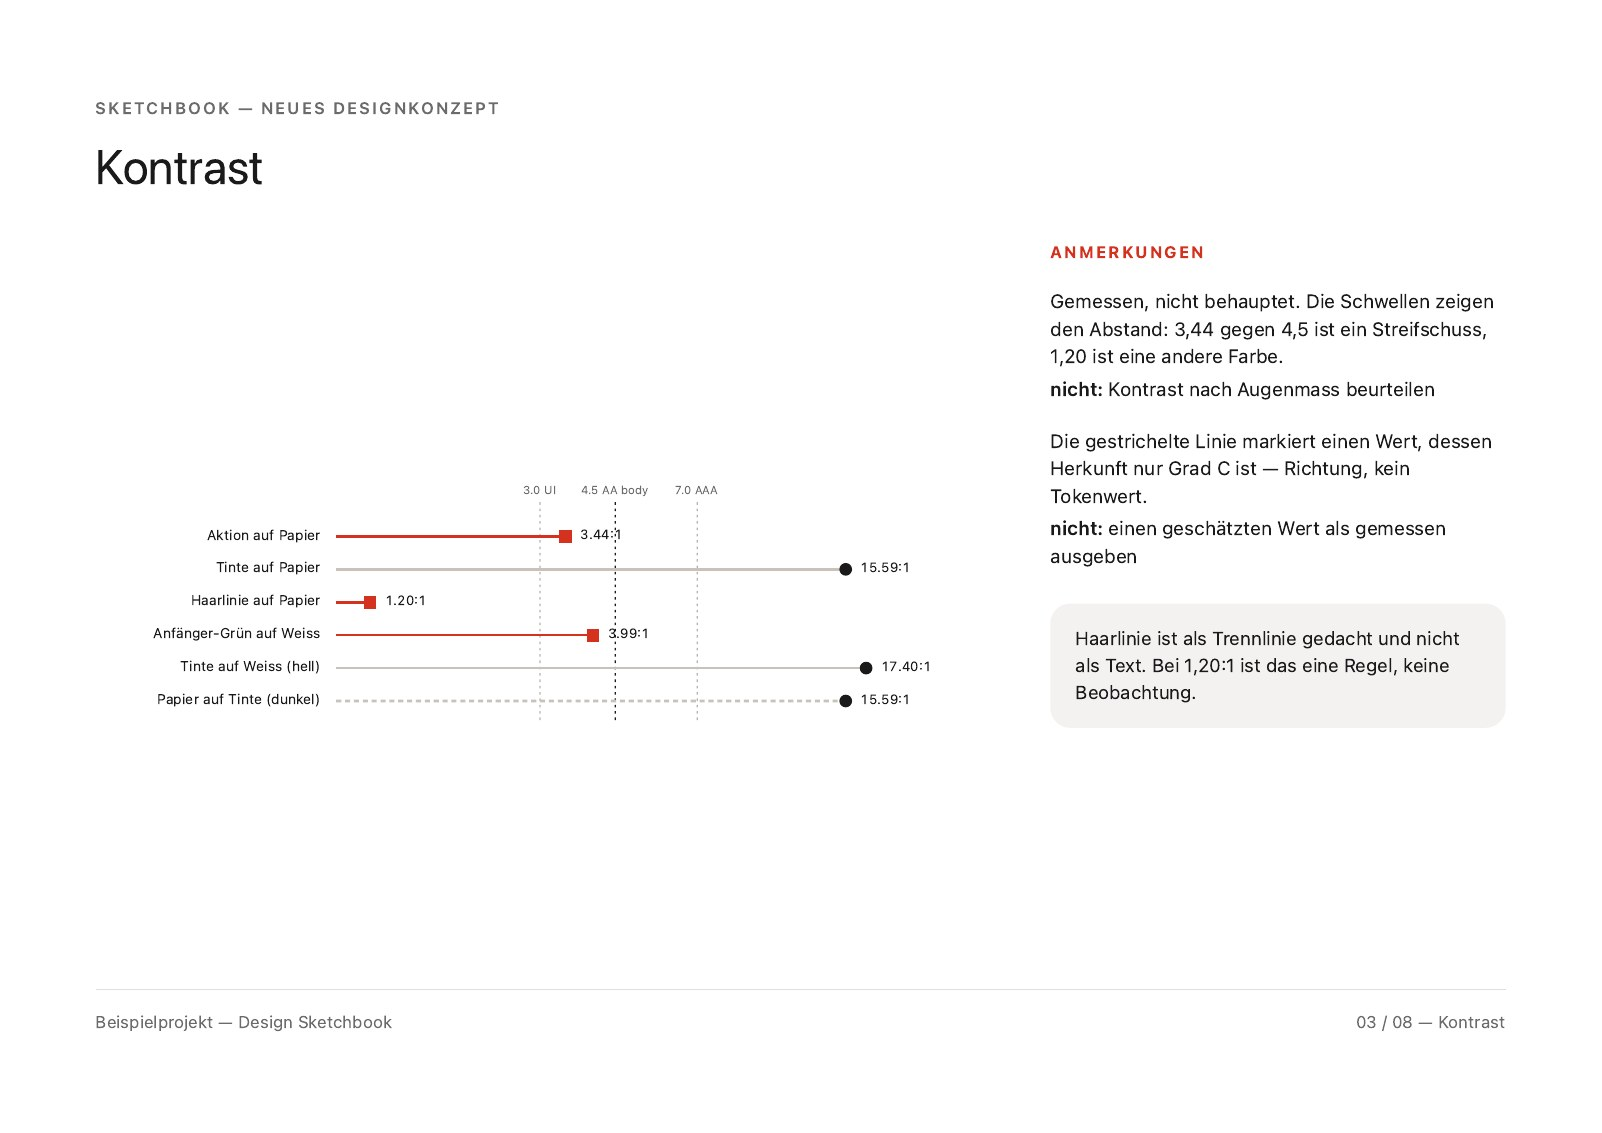
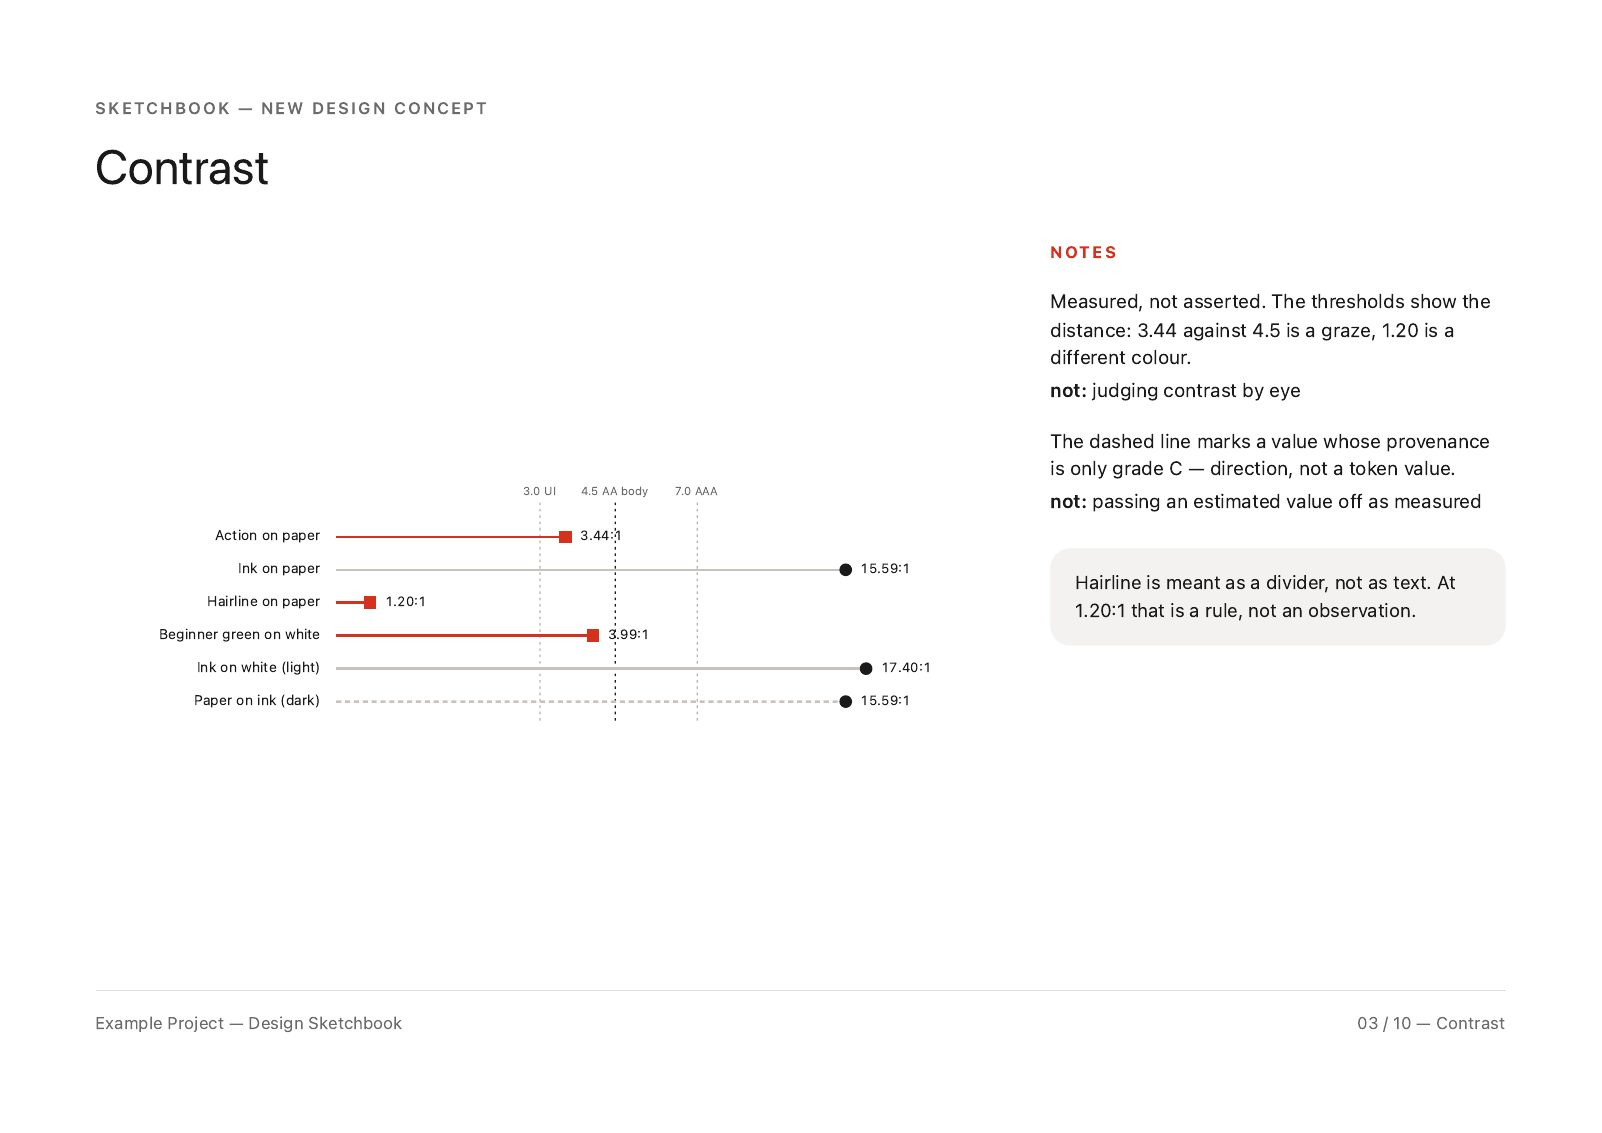
fix(matrize): the Specimen speaks English, and its screenshot was stale
The German was not confined to the demo fixture. build_sketchbook_html.py
hardcoded Anmerkungen, "nicht:", Entscheider:, Freigegeben:, Datum:, Optische
Groesse and Freigabe, so EVERY user got German chrome in their own
client-facing approval PDF regardless of their data. That is the part that
reached people; the fixture is cosmetic beside it.

Three couplings moved together, because any one alone half-lands the change:
the `.anmerkungen` CSS class is a matched pair between the generator and
assets/sketchbook-template.html, so renaming one leaves a silently unstyled
aside; a selftest asserted on "Diskussionsgrundlage", the default framing
string, so translating either alone makes it assert nothing; and the
ANMERKUNG term of art appears in four docstrings that otherwise stop
describing the code. Verified in the rendered page, not by inspection: the
element and its selector both resolve there.

The fixture is a TRANSLATION, not a redesign -- same tennis school, same
colours, px, ms, pin flags, rule/antiRule pairs and `unproven`. Proven by
rendering the old generator + old fixture in a scratch tree and comparing
structural markers: 10 spreads, 16 notes, 1 budget-flag, 0 figures, 8 pins, 8
observations, 15 anti-rules, 6 chips, 10 footers -- identical before and
after. The deliberately over-budget note is still over NOTE_BUDGET (342
chars) with no rule/antiRule pair, so the flag-rather-than-draw branch stays
[…]

diff --git a/plugins/matrize/assets/sketchbook-template.html b/plugins/matrize/assets/sketchbook-template.html
@@ -108,7 +108,7 @@ h1 { font-size: 2.1rem; font-weight: 400; margin: 0 0 1.6rem; letter-spacing: -.
   display: flex; align-items: center; justify-content: center; margin-top: .1rem;
 }
 
-.anmerkungen h2 {
+.notes-margin h2 {
   font-size: .72rem; letter-spacing: .12em; text-transform: uppercase;
   color: var(--sb-accent); font-weight: 700; margin: 0 0 1.1rem;
 }

diff --git a/plugins/matrize/scripts/build_sketchbook_html.py b/plugins/matrize/scripts/build_sketchbook_html.py
@@ -4,7 +4,7 @@
 Format
 ------
 Measured off the reference artefact rather than invented: landscape A4 at **root-2**
-(1.414), a 66/34 split between a rounded specimen canvas and an `ANMERKUNGEN` margin,
+(1.414), a 66/34 split between a rounded specimen canvas and an `NOTES` margin,
 numbered callouts in the OUTLINED margin weight, a tinted observation box for the derived
 note, and a hairline footer carrying `NN / TT — block name`.
 
@@ -26,7 +26,7 @@ inlined implementation plan, which is what a developer needs and a client does n
 Text into illustration
 ----------------------
 A UX-law obligation, not a flourish: prose past its slot budget stops being read
-(Cognitive Load, Miller's Law). An ANMERKUNG over budget is rendered as a do/don't
+(Cognitive Load, Miller's Law). A NOTE over budget is rendered as a do/don't
 figure instead — but ONLY when the entry carries a structured `rule` and `antiRule` to
 draw. With nothing to draw, it flags the overrun and leaves the prose alone. Inventing
 a figure the lexicon never described is the same defect as a rule with no card behind it.
@@ -55,7 +55,7 @@ import contrast as contrastlib  # noqa: E402
 TEMPLATE = HERE.parent / "assets" / "sketchbook-template.html"
 TOKENS = HERE.parent / "assets" / "tokens.css"
 
-# Character budget per ANMERKUNG. Past this the entry becomes a figure — see the
+# Character budget per NOTE. Past this the entry becomes a figure — see the
 # module docstring for why this is a rule rather than a preference.
 NOTE_BUDGET = 240
 
@@ -114,14 +114,14 @@ def do_dont_figure(rule: str, anti: str) -> str:
   <rect x="170" y="40" width="70" height="16" rx="8" fill="#d4321e"/>
   <rect x="248" y="40" width="34" height="16" rx="8" fill="#d4321e"/>
   <line x1="163" y1="9" x2="291" y2="59" stroke="#d4321e" stroke-width="1.2" opacity=".55"/>
-  <text x="227" y="84" text-anchor="middle" font-size="10" fill="#d4321e" font-weight="600">nicht</text>
+  <text x="227" y="84" text-anchor="middle" font-size="10" fill="#d4321e" font-weight="600">not</text>
 </svg>
-<figcaption>{esc(rule)} — <b>nicht:</b> {esc(anti)}</figcaption>
+<figcaption>{esc(rule)} — <b>not:</b> {esc(anti)}</figcaption>
 </figure>"""
 
 
 def render_note(note: dict, index: int | None) -> str:
-    """One ANMERKUNG. Over budget with a structured pair -> figure; otherwise flagged."""
+    """One NOTE. Over budget with a structured pair -> figure; otherwise flagged."""
     text = note.get("text", "")
     rule, anti = note.get("rule"), note.get("antiRule")
     # Only the OUTLINED margin callout ships. The reference's other state — a FILLED
@@ -142,7 +142,7 @@ def render_note(note: dict, index: int | None) -> str:
     else:
         inner = f"<p>{esc(text)}</p>"
         if anti:
-            inner += f'<span class="anti"><b>nicht:</b> {esc(anti)}</span>'
+            inner += f'<span class="anti"><b>not:</b> {esc(anti)}</span>'
     return f'<div class="note">{badge}<div>{inner}</div></div>'
 
 
@@ -163,7 +163,7 @@ def spread(kind: str, kicker: str, title: str, canvas: str, notes: list[dict],
   <h1>{esc(title)}</h1>
   <div class="body">
     <div class="{canvas_cls}">{canvas}</div>
-    <aside class="anmerkungen"><h2>Anmerkungen</h2>{note_html}{obs}</aside>
+    <aside class="notes-margin"><h2>Notes</h2>{note_html}{obs}</aside>
   </div>
   {snip}
   <footer><span>{esc(label)}</span><span>{page:02d} / {total:02d} — {esc(title)}</span></footer>
@@ -212,7 +212,7 @@ def icons_canvas(c: dict) -> str:
         for px in (system.grid, system.grid * 2 / 3, system.grid / 2)
     )
     return (f'<div class="icon-grid">{cells}</div>'
-            f'<p class="eyebrow" style="margin-top:1.1rem">Optische Grösse</p>'
+            f'<p class="eyebrow" style="margin-top:1.1rem">Optical size</p>'
             f'<div class="icon-grid">{small}</div>')
 
 
@@ -221,7 +221,7 @@ def gradient_canvas(c: dict) -> str:
     roles = c["roles"]
     derived = gradlib.derive(roles)
     if not derived:
-        return '<p class="empty">Keine Rolle stützt einen Verlauf. Das ist ein Befund.</p>'
+        return '<p class="empty">No role supports a gradient. That is a finding.</p>'
     cards = []
     for name, tok in derived.items():
         ends = [roles[st["color"].strip("{}").split(".", 1)[-1]] for st in tok["$value"]]
@@ -315,14 +315,14 @@ def build(data: dict, mode: str = "approval") -> str:
   <div class="statement-body">
     <p class="kicker">{esc(data.get('kicker', 'Sketchbook'))}</p>
     <div class="approval">
-    <h2>{esc(gate.get('framing', 'Diskussionsgrundlage, kein fertiges Regelwerk.'))}</h2>
+    <h2>{esc(gate.get('framing', 'A basis for discussion, not a finished rulebook.'))}</h2>
     <p>{esc(gate.get('criteria', ''))}</p>
-    <p class="line">Entscheider: <span class="rule-line">{esc(gate.get('decisionMaker', ''))}</span></p>
-    <p class="line">Freigegeben: <span class="rule-line"></span> Datum: <span class="rule-line" style="min-width:8rem"></span></p>
-    <p class="line">Freigabe umfasst: {esc(gate.get('covers', 'Richtung | Richtung und Taxonomie | das ganze System'))}</p>
+    <p class="line">Decision-maker: <span class="rule-line">{esc(gate.get('decisionMaker', ''))}</span></p>
+    <p class="line">Approved: <span class="rule-line"></span> Date: <span class="rule-line" style="min-width:8rem"></span></p>
+    <p class="line">Approval covers: {esc(gate.get('covers', 'direction | direction and taxonomy | the whole system'))}</p>
     </div>
   </div>
-  <footer><span>{esc(label)}</span><span>{total:02d} / {total:02d} — Freigabe</span></footer>
+  <footer><span>{esc(label)}</span><span>{total:02d} / {total:02d} — Approval</span></footer>
 </section>""")
 
     controls = ('<button id="md-export" class="md-export-btn">Export as Markdown</button>'
@@ -343,25 +343,25 @@ def build(data: dict, mode: str = "approval") -> str:
 
 
 DEMO = {
-    "system": "Beispielsystem",
-    "kicker": "Sketchbook — Neues Designkonzept",
-    "footerLabel": "Beispielsystem — Design Sketchbook",
-    "philosophy": "Eine dominante Aktionsfarbe, ein weiches Radius-System, drei Register.",
+    "system": "Example System",
+    "kicker": "Sketchbook — New Design Concept",
+    "footerLabel": "Example System — Design Sketchbook",
+    "philosophy": "One dominant action colour, a soft radius system, three registers.",
     "spreads": [{
-        "title": "Farbe",
+        "title": "Colour",
         "canvas": {"kind": "colour", "colours": [
-            {"name": "Aktion", "hex": "#FA2E1A", "on": "#ffffff"},
-            {"name": "Tinte", "hex": "#1a1a1a", "on": "#ffffff"},
+            {"name": "Action", "hex": "#FA2E1A", "on": "#ffffff"},
+            {"name": "Ink", "hex": "#1a1a1a", "on": "#ffffff"},
         ]},
-        "notes": [{"text": "Rot bleibt die einzige dominante Aktionsfarbe pro View.",
-                   "antiRule": "nie zwei gleichzeitig", "pin": True}],
-        "observation": "Der Ball im Schriftzug liefert das Gold-Motiv bereits.",
+        "notes": [{"text": "Red stays the only dominant action colour per view.",
+                   "antiRule": "never two at once", "pin": True}],
+        "observation": "Action red clears 3:1 for large text, and falls short for body copy.",
         "snippet": "--action: #FA2E1A;",
     }],
-    "approval": {"framing": "Diskussionsgrundlage, kein fertiges Regelwerk.",
-                 "criteria": "Rückmeldung zu Farbe und Templates vor der Produktion.",
-                 "decisionMaker": "", "covers": "Richtung"},
-    "markdown": "# Beispielsystem\n",
+    "approval": {"framing": "A basis for discussion, not a finished rulebook.",
+                 "criteria": "Feedback on colour and templates before production.",
+                 "decisionMaker": "", "covers": "direction"},
+    "markdown": "# Example System\n",
 }
 
 
@@ -371,7 +371,8 @@ def selftest() -> int:
     checks.append(("landscape A4 in @page", "size: A4 landscape" in page))
     checks.append(("root-2 aspect, not 16/10", "aspect-ratio: 1.414" in page and "16 / 10" not in page))
     checks.append(("cover is a statement spread", 'spread--statement' in page))
-    checks.append(("approval block is present by default", "Diskussionsgrundlage" in page))
+    # Coupled to the default framing above. Move BOTH or this asserts nothing.
+    checks.append(("approval block is present by default", "A basis for discussion, not a finished rulebook." in page))
     checks.append(("approval mode carries NO code", "<pre>" not in page))
     # The BUTTON must be absent. The string "md-export" also appears in the stylesheet
     # and in the listener's own guard, so a bare substring test asserts the wrong thing.
@@ -401,9 +402,9 @@ def selftest() -> int:
     checks.append(("fg/bg is computed into the chart", "3.84:1" in build(computed)))
 
     # text -> illustration
-    long_with_pair = {"text": "x" * 300, "rule": "Eine Aktionsfarbe", "antiRule": "nie zwei"}
+    long_with_pair = {"text": "x" * 300, "rule": "One action colour", "antiRule": "never two"}
     long_without = {"text": "y" * 300}
-    short = {"text": "kurz"}
+    short = {"text": "short"}
     checks.append(("over budget + a pair -> figure", "<figure" in render_note(long_with_pair, 1)))
     checks.append(("over budget, nothing to draw -> flagged, prose kept",
                    "budget-flag" in render_note(long_without, 1)

diff --git a/plugins/matrize/README.md b/plugins/matrize/README.md
@@ -214,14 +214,14 @@ by intent.
 
 ## The sketchbook — the Specimen
 
-![A landscape sketchbook spread titled Kontrast: a threshold chart plots six contrast
+![A landscape sketchbook spread titled Contrast: a threshold chart plots six contrast
 pairs against rules at 3.0, 4.5 and 7.0, with square red heads for pairs that fall short
-and round dark heads for pairs that clear, beside an ANMERKUNGEN margin carrying two
+and round dark heads for pairs that clear, beside a NOTES margin carrying two
 rules with their anti-rules.](assets/sketchbook-screenshot.jpg)
 
 Landscape A4 at **√2**, measured off a real reference rather than assumed — a generic
 landscape scaffold uses 16:10, and the reference does not. One building block per spread,
-a 66/34 split between specimen canvas and `ANMERKUNGEN` margin, numbered callouts in the
+a 66/34 split between specimen canvas and `NOTES` margin, numbered callouts in the
 margin, a tinted box for the derived observation, and the approval block that makes the
 whole thing a gate rather than a gallery.
 
@@ -235,6 +235,23 @@ described as if it worked.
 python3 plugins/matrize/scripts/build_sketchbook_html.py \
   --data plugins/matrize/scripts/fixtures/sketchbook-demo.json --out /tmp/sketchbook.html
 ```
+
+The screenshot above is page 3 of that file, rendered through the same print path the `pdf`
+target uses. Recording it matters: the previous image was captured from a build whose footer
+still read `03 / 08`, the current code renders `03 / 10`, and nothing noticed — because the
+command that produces the HTML was written down and the command that produces the *image*
+was not.
+
+```bash
+"/Applications/Google Chrome.app/Contents/MacOS/Google Chrome" --headless=new --disable-gpu \
+  --no-pdf-header-footer --print-to-pdf=/tmp/sb.pdf file:///tmp/sketchbook.html
+pdftoppm -f 3 -l 3 -jpeg -jpegopt quality=82 -scale-to-x 1602 -scale-to-y 1133 /tmp/sb.pdf /tmp/page
+cp /tmp/page-03.jpg plugins/matrize/assets/sketchbook-screenshot.jpg
+cp /tmp/page-03.jpg docs/plugins/assets/sketchbook-screenshot.jpg   # the docs copy is NOT synced by anything
+```
+
+Print, not the screen preview: `@media screen` wraps each spread in a shadowed card on grey,
+`@media print` is full-bleed, and the committed image is the print rendering.
 
 **Two modes.** `approval` (default) is the reference's shape — no code anywhere, because
 it goes in front of a decision-maker. `handoff` adds a bottom-anchored snippet per spread
@@ -251,7 +268,7 @@ miss fixed by darkening a few percent, and 1.20 is a different colour. A table p
 "FAILS" for both.
 
 **Text into illustration.** Prose past its slot budget stops being read, so an over-budget
-`ANMERKUNG` is rendered as a do/don't figure instead — but only when the entry carries a
+`NOTE` is rendered as a do/don't figure instead — but only when the entry carries a
 structured rule and anti-rule to draw. With nothing to draw it flags the overrun and
 leaves the prose alone. Inventing a figure the lexicon never described is the same defect
 as a rule with no card behind it.

diff --git a/plugins/matrize/CHANGELOG.md b/plugins/matrize/CHANGELOG.md
@@ -4,6 +4,31 @@ All notable changes to the `matrize` plugin are documented here.
 
 ## [Unreleased]
 
+### Changed
+- the Specimen speaks **English**. `build_sketchbook_html.py` hardcoded German chrome —
+  `Anmerkungen`, `nicht:`, `Entscheider:`, `Freigegeben:`, `Datum:`, `Optische Grösse`,
+  `Freigabe` — which shipped into *every* user's client-facing approval PDF regardless of
+  their own data. The CSS class moved with it (`.anmerkungen` → `.notes-margin`, in the
+  generator **and** `assets/sketchbook-template.html`, which are a matched pair), as did the
+  selftest assertion coupled to the default framing string
+- `scripts/fixtures/sketchbook-demo.json` translated. A translation, not a redesign: every
+  structural property the renderer keys on is unchanged, verified by comparing rendered
+  markers before and after — 10 spreads, 16 notes, 1 over-budget flag, 0 figures, 8 pins, 8
+  observations, 15 anti-rules. The over-budget note is still over `NOTE_BUDGET` (342 chars)
+  with no rule/anti-rule pair, so the flag-rather-than-draw branch stays exercised. German
+  decimal commas (`3,84:1`) normalised to points, which the chart axis already used
+
+### Fixed
+- `assets/sketchbook-screenshot.jpg` was **stale**, independently of the language change: it
+  showed a footer of `03 / 08` while the committed code renders `03 / 10`. Recaptured through
+  the print path, and the command that produces the *image* — not just the HTML — is now in
+  the README, since its absence is why nobody could diff it
+- `agents/token-emitter.md`'s description listed CSS, Tailwind, SCSS, JSON and TOML without
+  the "not built" qualifier every other surface carries, so it read as a capability list. It
+  now says what it is: the agent that AUTHORS a formatter, including for the four targets the
+  README names as absent
+
+
 ## [0.2.0] - 2026-09-12
 ### Changed
 - **the vocabulary now enforces.** It reached the pipeline only as prose in four

diff --git a/plugins/matrize/agents/token-emitter.md b/plugins/matrize/agents/token-emitter.md
@@ -1,6 +1,6 @@
 ---
 name: token-emitter
-description: "Use this agent when matrize needs a formatter authored for one emit target — a committed script that turns the DTCG token file into CSS, Tailwind config, SCSS, JSON or TOML deterministically. Dispatched once per target, at plugin build time rather than per run, because emitting must be reproducible: a formatter that re-decides its output per run cannot prove equivalence with anything. Read-only; it returns the script source for review and never installs a dependency, writes into a project, or hand-edits emitted output."
+description: "Use this agent when matrize needs a formatter AUTHORED for one emit target — a committed script that turns the DTCG token file into that target deterministically. This is how a target that does not exist yet gets built: matrize ships css, vitepress, html, pdf and provenance, and Tailwind, SCSS, JSON and TOML are named in the README as NOT built, so asking for one of those is a request to author the formatter, never a claim that emit can already produce it. Dispatched once per target, at plugin build time rather than per run, because emitting must be reproducible: a formatter that re-decides its output per run cannot prove equivalence with anything. Read-only; it returns the script source for review and never installs a dependency, writes into a project, or hand-edits emitted output."
 model: sonnet
 color: yellow
 tools: Read, Glob, Grep
